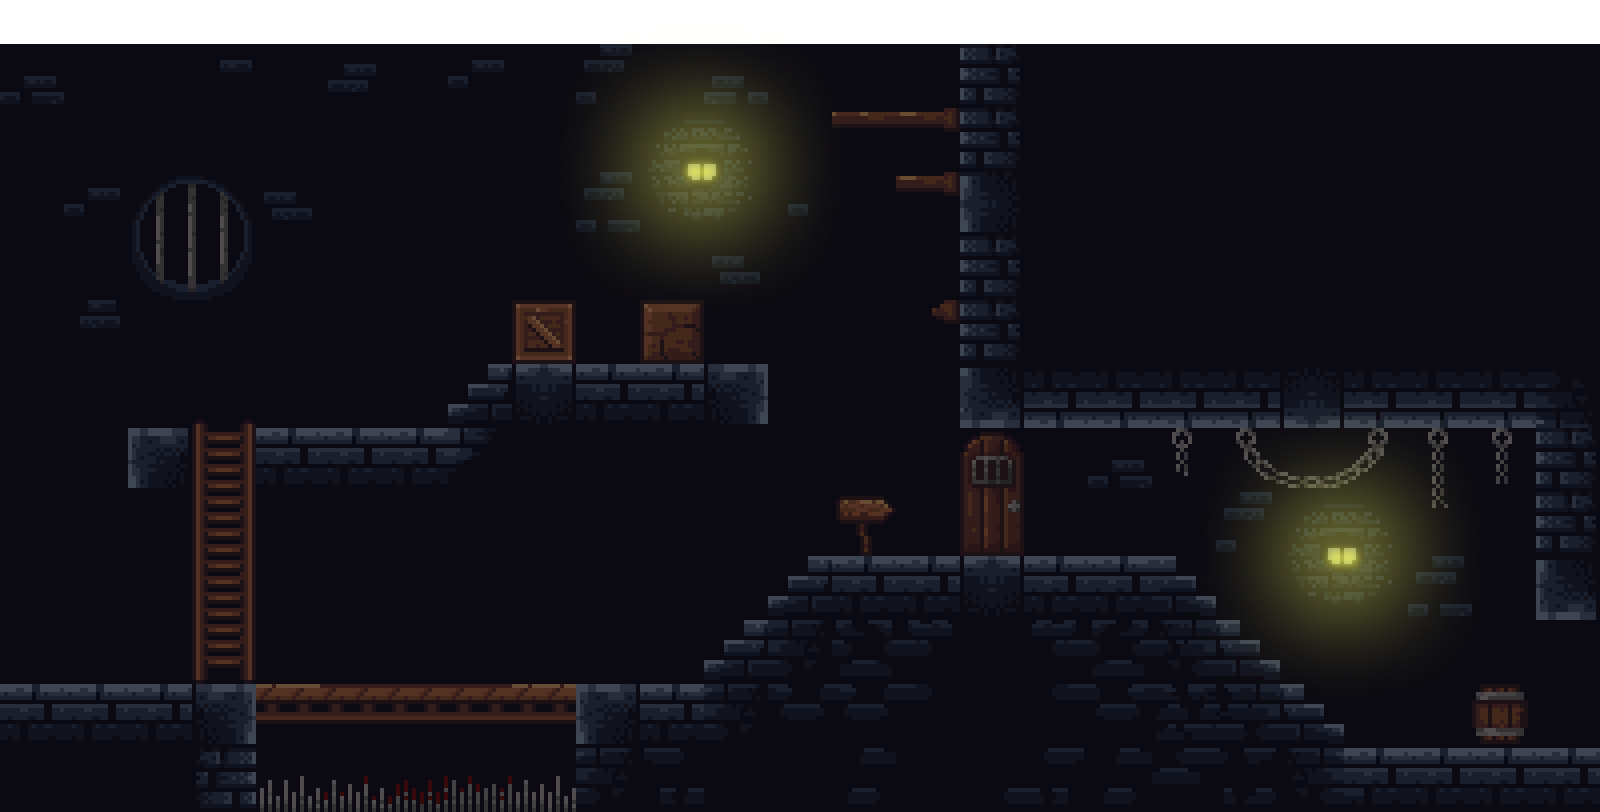
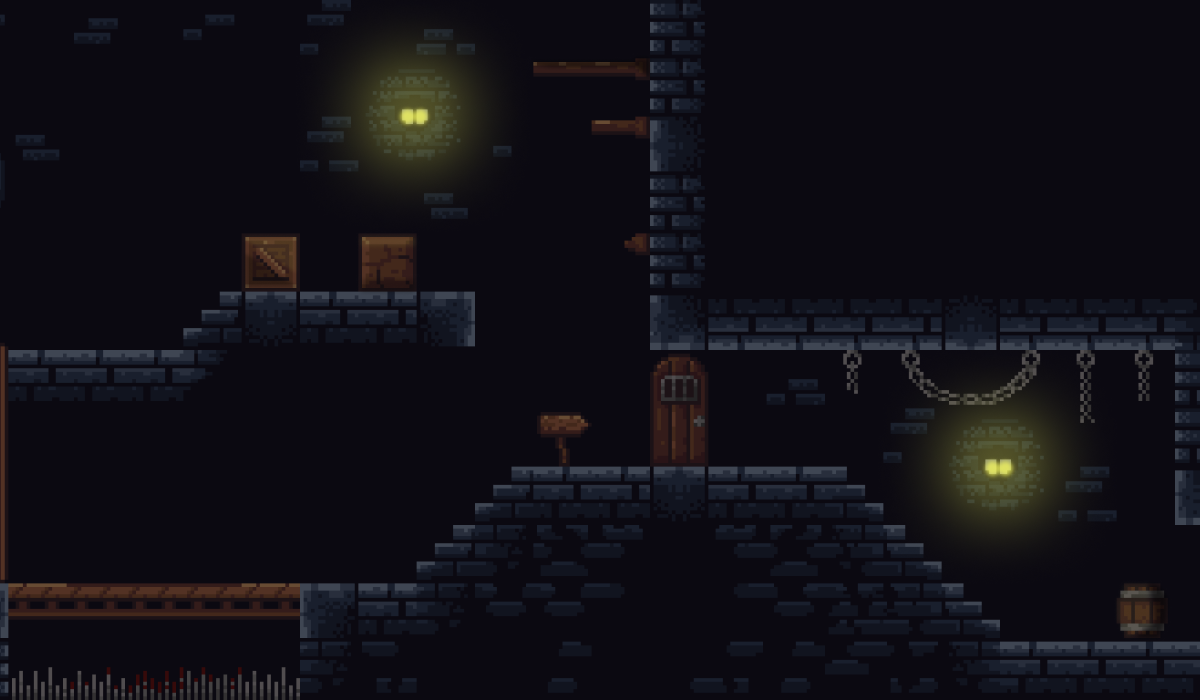
death, player, map, tiles, screens
added credits
added controls
added true random tiles
added death
added reset player
improved map generator

diff --git a/random_map.py b/random_map.py
@@ -19,42 +19,58 @@ array_strings = []
 # refactoring, odds tweaks
 def generate_random_map():
 
+                
+
     for linha in mapa:
-        if linha == '9' or linha == '10' or linha == '11':
+        # if linha == '9' or linha == '10' or linha == '11':
             
-            for i in range(0, 30): # comprimento do mundo
-                x = get_random_int(0, 2) # chances
-                if x == 0:
-                    mapa[linha].append('I')
-                    mapa[linha].append('F')
-                    mapa[linha].append('G')
-                    mapa[linha].append('X')
+        #     for i in range(0, 30): # comprimento do mundo
+        #         x = get_random_int(0, 2) # chances
+        #         if x == 0:
+        #             mapa[linha].append('I')
+        #             mapa[linha].append('F')
+        #             mapa[linha].append('G')
+        #             mapa[linha].append('X')
                 
-                else:
-                    mapa[linha].append(' ')
-                    mapa[linha].append(' ')
+        #         else:
+        #             mapa[linha].append(' ')
+        #             mapa[linha].append(' ')
 
-        elif int(linha) % 2 == 0:
-            for i in range(0, 30):
-                x = get_random_int(0, 40)
-                if x == 0:
-                    mapa[linha].append('G')
-                    mapa[linha].append('X')
-                    mapa[linha].append('F')
-                    mapa[linha].append('I')
+        # elif int(linha) % 2 == 0:
+        #     for i in range(0, 30):
+        #         x = get_random_int(0, 40)
+        #         if x == 0:
+        #             mapa[linha].append('G')
+        #             mapa[linha].append('X')
+        #             mapa[linha].append('F')
+        #             mapa[linha].append('I')
                 
-                else:
-                    mapa[linha].append(' ')
-                    mapa[linha].append(' ')
+        #         else:
+        #             mapa[linha].append(' ')
+        #             mapa[linha].append(' ')
 
-        elif int(linha) % 2 != 0:
+        # elif int(linha) % 2 != 0:
+        #     for i in range(0, 30):
+        #         x = get_random_int(0, 10)
+        #         if x == 0:
+        #             mapa[linha].append('F')
+        #             mapa[linha].append('G')
+        #             mapa[linha].append('I')
+        #             mapa[linha].append('X')
+                
+        #         else:
+        #             mapa[linha].append(' ')
+        #             mapa[linha].append(' ')
+
+        tiles_letters = ['not', 'X', 'F', 'G', 'I']
+        if int(linha) > 5:
             for i in range(0, 30):
                 x = get_random_int(0, 10)
                 if x == 0:
-                    mapa[linha].append('F')
-                    mapa[linha].append('G')
-                    mapa[linha].append('I')
-                    mapa[linha].append('X')
+                    mapa[linha].append(tiles_letters[get_random_int(1,4)])
+                    mapa[linha].append(tiles_letters[get_random_int(1,4)])
+                    mapa[linha].append(tiles_letters[get_random_int(1,4)])
+                    mapa[linha].append(tiles_letters[get_random_int(1,4)])
                 
                 else:
                     mapa[linha].append(' ')

diff --git a/player.py b/player.py
@@ -1,8 +1,10 @@
 import pygame, os
 from settings import Settings
 from importer import import_folder
+from random_map import reset_map
 
-from global_variables import get_game_state, set_game_state
+
+from global_variables import *
 
 
 settings = Settings()
@@ -35,6 +37,7 @@ class Player(pygame.sprite.Sprite):
         self.on_ceiling = False
         self.on_left = False
         self.on_right = False
+
 
 
     def import_player_sprites(self):
@@ -97,13 +100,14 @@ class Player(pygame.sprite.Sprite):
         keys = pygame.key.get_pressed()
 
         if keys[pygame.K_ESCAPE]:
-            set_game_state(0) # menu
+            reset_map()
+            set_game_state(9)
 
-        if keys[pygame.K_a]:
+        if keys[pygame.K_a] or keys[pygame.K_LEFT]:
             self.direction.x = -1
             self.facing_right = False
 
-        elif keys[pygame.K_d]:
+        elif keys[pygame.K_d] or keys[pygame.K_RIGHT]:
             self.direction.x = 1
             self.facing_right = True
 
@@ -113,7 +117,7 @@ class Player(pygame.sprite.Sprite):
         if keys[pygame.K_g]: # test animations
             self.status = 'death'
 
-        if keys[pygame.K_SPACE] and self.on_ground:
+        if (keys[pygame.K_SPACE] or keys[pygame.K_w] or keys[pygame.K_UP]) and self.on_ground:
             self.jump()
 
     def get_status(self): 
@@ -137,8 +141,16 @@ class Player(pygame.sprite.Sprite):
     def jump(self):
         self.direction.y = self.jump_speed
 
+    def game_over(self):
+        if self.rect.y > settings.screen_height:
+            reset_map()
+            set_game_state(9)
+            
+
     def update(self):
         self.get_input()
         self.get_status()
         self.animate()
         self.run_dust_animation()
+
+        self.game_over()

diff --git a/main.py b/main.py
@@ -7,8 +7,11 @@ pygame.font.init()
 from settings import Settings
 from jogo import Jogo
 from menu import Menu
+from controls import Controls
+from credits_game import Credits
 
 from global_variables import *
+from random_map import *
 
 
 
@@ -22,6 +25,8 @@ if __name__ == '__main__':
     # game 
     level = Jogo(settings.test_level_map, screen)
     menu = Menu(screen)
+    controls = Controls(screen)
+    credits_game = Credits(screen)
     print(f"Game state: {get_game_state()}")
 
     while True:
@@ -32,6 +37,8 @@ if __name__ == '__main__':
                 sys.exit() # close the program
 
         if get_game_state() == 9: # reset
+            reset_map()
+            settings = Settings()
             level = Jogo(settings.test_level_map, screen)
             menu = Menu(screen)
             set_game_state(0)
@@ -44,7 +51,7 @@ if __name__ == '__main__':
 
 
         # Game
-        if get_game_state() == 1:
+        if get_game_state() == 1: # play state
 
             
             screen.fill(settings.bg_color) # filling the screen with a color
@@ -54,9 +61,18 @@ if __name__ == '__main__':
 
         pygame.display.update() # updating the screen
 
+        if get_game_state() == 2: # controls state # add states to menu
+            # print("game state 2, controls")
+
+            controls.run()
+
+        if get_game_state() == 3: # credits state
+            credits_game.run()
+
+        # FPS
         if get_game_state() == 0: 
             clock.tick(settings.MENU_FPS) # limit the FPS to 30 para consertar bug em que seta passa mais de uma vez por call
-        if get_game_state() == 1:
+        else:
             clock.tick(settings.FPS)
      
 

diff --git a/menu.py b/menu.py
@@ -40,24 +40,24 @@ class Menu():
 
     def get_input(self):
         keys = pygame.key.get_pressed()
-        self.limit_user_input += 0.4
+        self.limit_user_input += 0.9 # lower fixes
 
         if keys[pygame.K_RETURN] and self.selected_option == 1: # press ENTER to play
             set_game_state(1)
 
         if keys[pygame.K_RETURN] and self.selected_option == 2: # press ENTER to controls
-            pass
+            set_game_state(2)
 
         if keys[pygame.K_RETURN] and self.selected_option == 3: # press ENTER to credits
-            pass
+            set_game_state(3)
 
         if keys[pygame.K_RETURN] and self.selected_option == 4: # press ENTER to quit
             sys.exit()
         
         # testing reset
         if keys[pygame.K_r]:
-            set_game_state(9)
             reset_map()
+            set_game_state(9)
 
         if keys[pygame.K_DOWN] and self.selected_option == 1 and int(self.limit_user_input) > 1:
             self.arrow_image_rect.y = 360 # y of controls

diff --git a/global_variables.py b/global_variables.py
@@ -1,5 +1,12 @@
 from random import randint
 
+import pygame, sys
+
+# Iniciando fontes
+pygame.font.init()
+
+
+# menu functions
 global game_state
 game_state = 0
 
@@ -11,10 +18,32 @@ def set_game_state(state):
     game_state = state
     print(f"Game state was set: {game_state}")
 
+
+# random map
 def get_random_int(min, max):
     x = randint(min, max)
     # print(f"Random number: {x}")
     return x
 
 
+# text
+font_name = './assets/fonts/PressStart2P-Regular.ttf'
+def draw_text(text,color,x,y, font_size, screen): 
+    font = pygame.font.Font(font_name, font_size) # fontname, size
 
+    text_obj = font.render(text, 1, color)
+    text_rect = text_obj.get_rect()
+    text_rect.center = (x,y)
+    screen.blit(text_obj, text_rect)
+
+# player
+# global is_player_dead
+# is_player_dead = False
+
+# def get_is_player_dead():
+#     return is_player_dead
+
+# def set_is_player_dead(state):
+#     global is_player_dead
+#     is_player_dead = state
+#     print(f"Player is dead: {is_player_dead}")

diff --git a/controls.py b/controls.py
@@ -1,0 +1,29 @@
+import pygame
+from global_variables import *
+from settings import Settings
+
+settings = Settings()
+
+class Controls:
+    def __init__(self, window):
+        self.screen = window
+
+        # background
+        self.background = pygame.image.load('assets/bg_controls.png')
+        self.background_rect = self.background.get_rect(topleft = (0,-0))
+
+    def get_input(self):
+        keys = pygame.key.get_pressed()
+        if keys[pygame.K_ESCAPE]: # voltar menu
+            set_game_state(0)
+
+    def draw_main_text(self):
+        draw_text('CONTROLS', 'white', settings.screen_width / 2, 125, 30, self.screen) # text, color , x, y, font size, screen
+
+
+    def run(self):
+        self.screen.fill(settings.bg_color)
+        self.screen.blit(self.background, (self.background_rect.x, self.background_rect.y))
+        self.draw_main_text()
+
+        self.get_input()

diff --git a/credits_game.py b/credits_game.py
@@ -1,0 +1,29 @@
+import pygame
+from global_variables import *
+from settings import Settings
+
+settings = Settings()
+
+class Credits:
+    def __init__(self, window):
+        self.screen = window
+
+        # background
+        self.background = pygame.image.load('assets/bg_credits.png')
+        self.background_rect = self.background.get_rect(topleft = (0,-0))
+
+    def get_input(self):
+        keys = pygame.key.get_pressed()
+        if keys[pygame.K_ESCAPE]: # voltar menu
+            set_game_state(0)
+
+    def draw_main_text(self):
+        draw_text('CREDITS', 'white', settings.screen_width / 2, 125, 30, self.screen) # text, color , x, y, font size, screen
+
+
+    def run(self):
+        self.screen.fill(settings.bg_color)
+        self.screen.blit(self.background, (self.background_rect.x, self.background_rect.y))
+        self.draw_main_text()
+
+        self.get_input()

diff --git a/jogo.py b/jogo.py
@@ -127,3 +127,4 @@ class Jogo:
         self.get_player_on_ground()
         self.v_colision()
         self.player.draw(self.display_surface)
+
